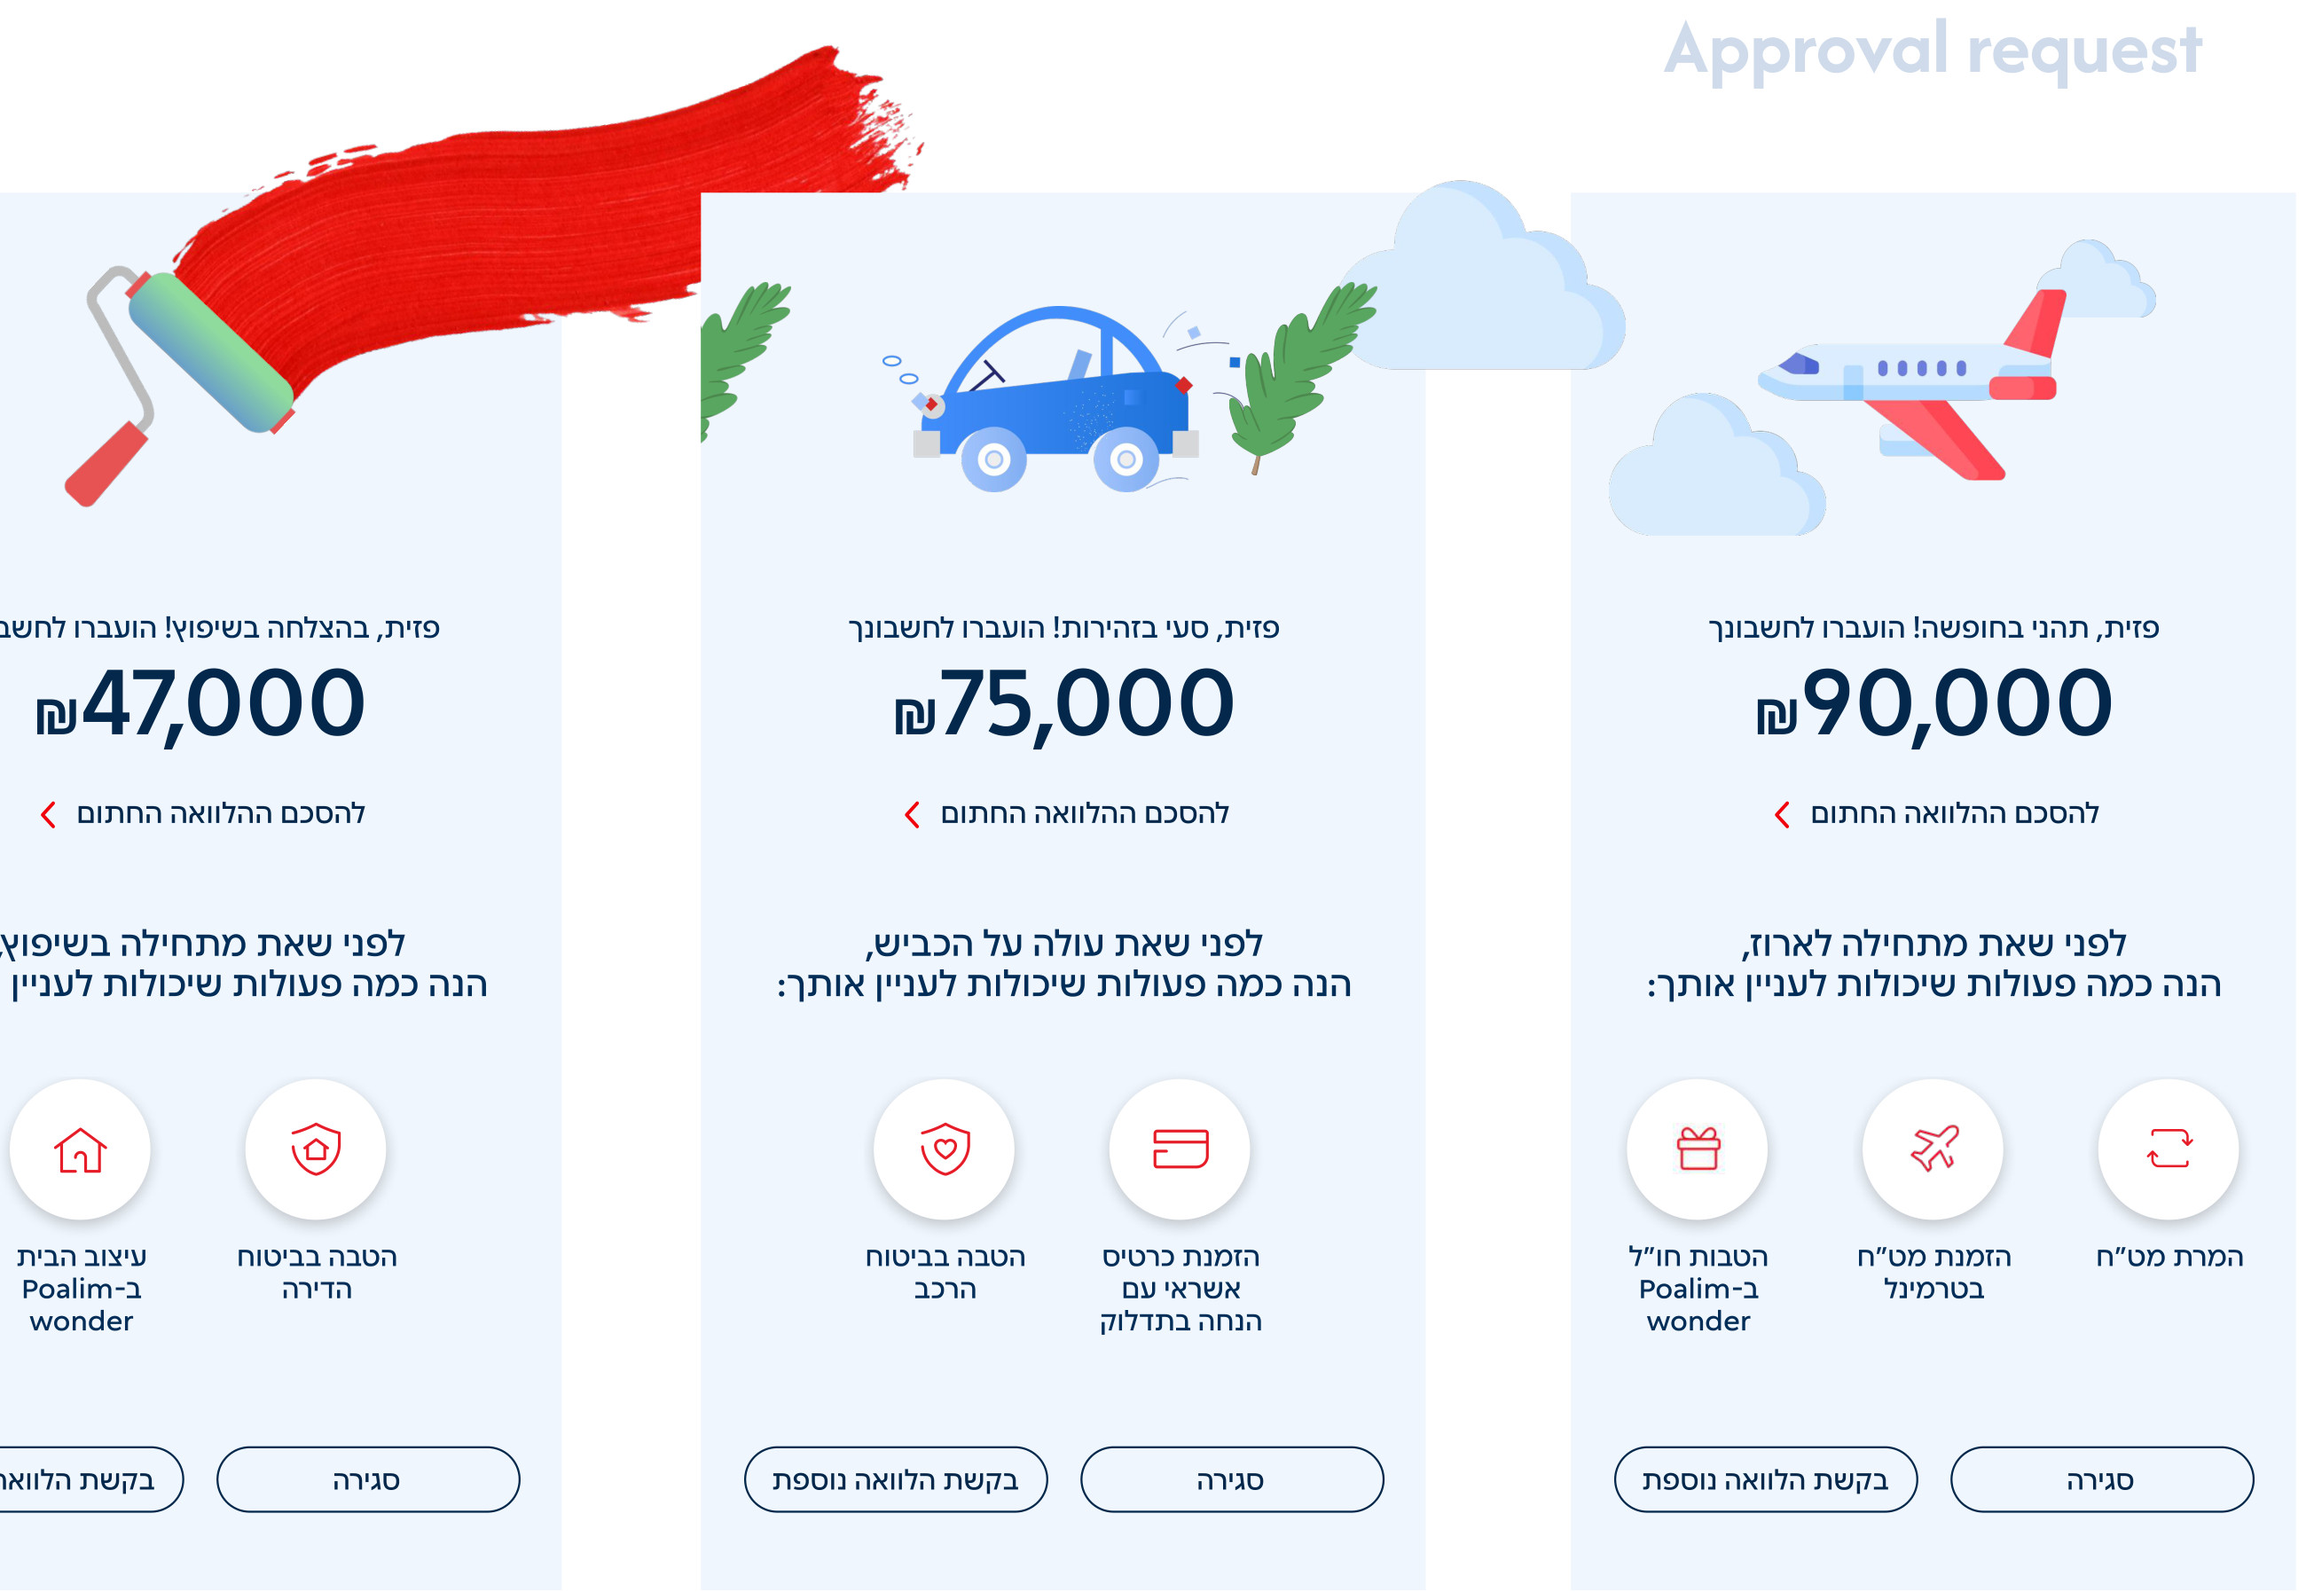
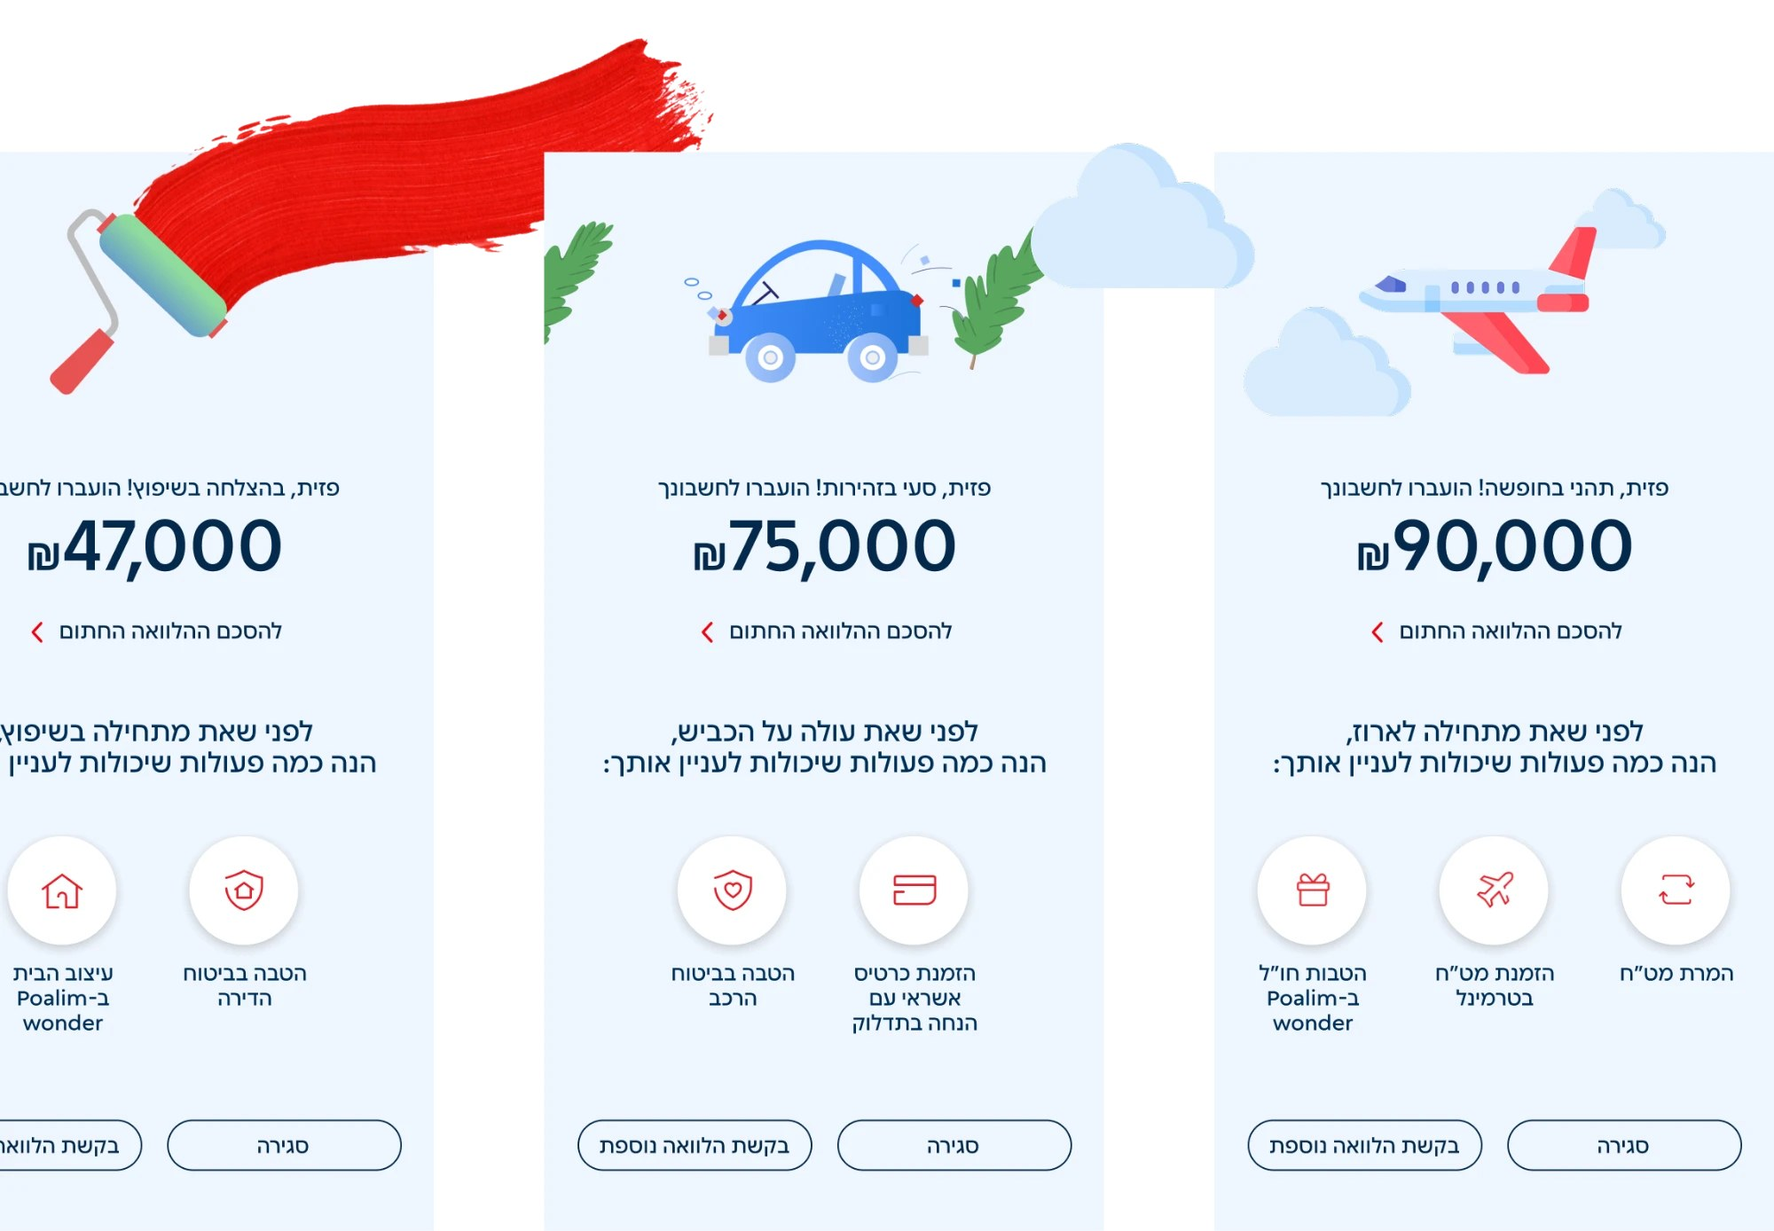
Update the Hapoalim personalization image

diff --git a/site/index.html b/site/index.html
@@ -1012,7 +1012,7 @@ figcaption { font-family: var(--f-mono); font-size: .78rem; color: var(--ink-3);
     <section class="cs-sec">
       <div class="side"><span class="label">Personalization</span><h2>The ending changes with the purpose</h2><p class="muted">Renovating, buying a car or going on vacation: the confirmation speaks to that plan and offers actions that fit it, like home insurance, a fuel-discount card or foreign currency.</p></div>
       <div class="main">
-        <figure class="figure"><div class="frame pad"><img src="img/bh-approved.jpg" alt="Confirmation screens for renovation, car and vacation loans with tailored next actions" loading="lazy" width="1800" height="1243"></div><figcaption>Money-transfer confirmations with complementary actions per loan purpose.</figcaption></figure>
+        <figure class="figure"><div class="frame pad"><img src="img/bh-approved.jpg?v=2" alt="Confirmation screens for renovation, car and vacation loans with tailored next actions" loading="lazy" width="2000" height="1388"></div><figcaption>Money-transfer confirmations with complementary actions per loan purpose.</figcaption></figure>
       </div>
     </section>
 
